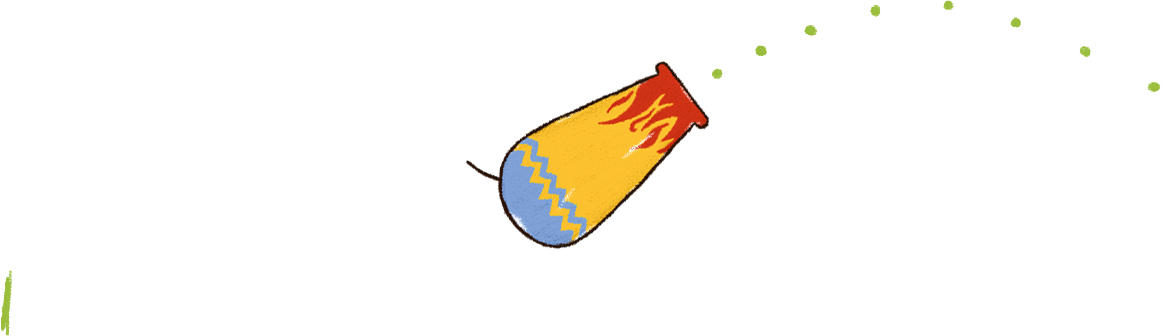
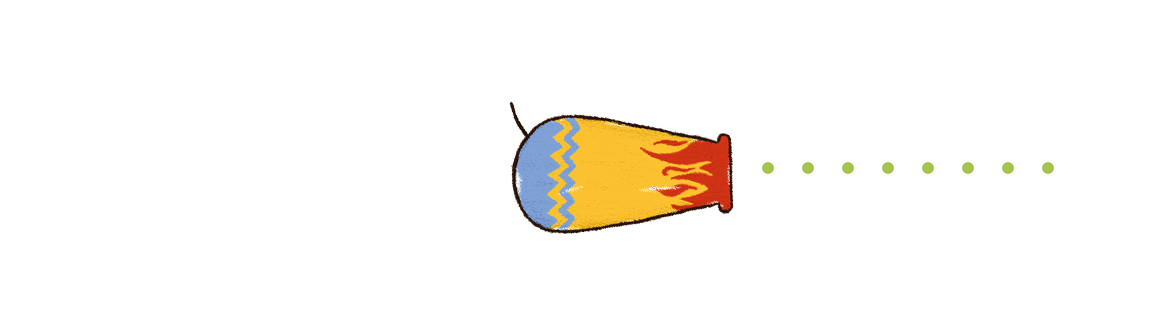
Improvements to activated cannon

diff --git a/source/js/classes/MarbleRun.js b/source/js/classes/MarbleRun.js
@@ -30,7 +30,7 @@ class MarbleRun {
         cannonAngle < 0
           ? {
               x: 0.275,
-              y: -0.1,
+              y: -0.1 * (cannonAngle / CANNON_ANGLE_MAX),
             }
           : !cannonAngle
           ? {
@@ -39,13 +39,13 @@ class MarbleRun {
             }
           : {
               x: 0.275,
-              y: 0.1,
+              y: 0.1 * (cannonAngle / CANNON_ANGLE_MIN),
             }
       );
     }
 
     cannonHasBeenFired = true;
-    cannon.attributes.image=imgCannon;
+    // cannon.attributes.image = imgCannon;
     soundCanonshoot.play();
     setTimeout(() => {
       soundCanonshoot.stop();

diff --git a/source/js/main.js b/source/js/main.js
@@ -127,6 +127,8 @@ let cannonHasBeenLoaded = false;
 let cannonHasBeenFired = false;
 /** @type {Block} */ let cannonElevator;
 let cannonElevatorIsMoving = false;
+const CANNON_ANGLE_MIN = 0.33;
+const CANNON_ANGLE_MAX = -0.65;
 // Glove
 /** @type {PolygonFromSVG} */ let baseballGlove;
 // Car
@@ -229,6 +231,8 @@ function draw() {
       engine.timing.timeScale = 1;
     }
   );
+
+  console.log(cannonAngle);
 
   if (player.body.position.x >= CANVAS_BREAKPOINT) marbleRun.stats();
 }

diff --git a/source/js/classes/Cannon.js b/source/js/classes/Cannon.js
@@ -16,9 +16,9 @@ function resetCannon() {
 
 function rotateCannon() {
   if (cannonCanRotate) {
-    if (cannonAngle >= 0.33) {
+    if (cannonAngle >= CANNON_ANGLE_MIN) {
       cannonIsReversing = true;
-    } else if (cannonAngle <= -0.65) {
+    } else if (cannonAngle <= CANNON_ANGLE_MAX) {
       cannonIsReversing = false;
     }
 
